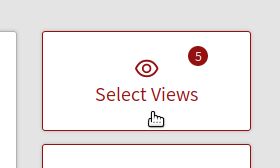
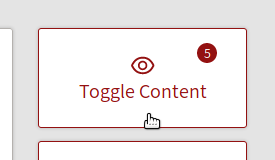
renamed content toggling, again. not the last time.

diff --git a/vedaweb-frontend/src/Footer.js b/vedaweb-frontend/src/Footer.js
@@ -25,28 +25,28 @@ class Footer extends Component {
 
                 <Row
                 type="flex"
-                justify="space-around"
+                justify="center"
                 align="middle">
 
-                    <Col span={3} className="footer-box">
+                    <Col span={5} className="footer-box">
                         <a href="http://www.dfg.de/en" className="bw" target="_blank" rel="noopener noreferrer">
                             <img src={logoDFG} alt="Gefördert durch die DFG"/>
                         </a>
                     </Col>
 
-                    <Col span={3} className="footer-box">
+                    <Col span={5} className="footer-box">
                         <a href="http://dh.uni-koeln.de/" className="bw" target="_blank" rel="noopener noreferrer">
                             <img src={logoIDH} alt="IDH"/>
                         </a>
                     </Col>
 
-                    <Col span={3} className="footer-box">
+                    <Col span={5} className="footer-box">
                         <a href="http://cceh.uni-koeln.de/" className="bw" target="_blank" rel="noopener noreferrer">
                             <img src={logoCCEH} alt="CCEH"/>
                         </a>
                     </Col>
 
-                    <Col span={3} className="footer-box">
+                    <Col span={5} className="footer-box">
                         <a href="http://dch.phil-fak.uni-koeln.de/" className="bw" target="_blank" rel="noopener noreferrer">
                             <img src={logoDCH} alt="DCH"/>
                         </a>

diff --git a/vedaweb-frontend/src/ContentView.js b/vedaweb-frontend/src/ContentView.js
@@ -396,7 +396,7 @@ class ContentView extends Component {
                                             count={uiDataStore.layers.filter(l => l.id.endsWith('_') && l.show).length}>
                                                 <div style={{textAlign:'center', fontSize:'20px', lineHeight: '1.2',}}>
                                                     <Icon type="eye" style={{fontSize:'24px'}}/><br/>
-                                                    Select Views
+                                                    Toggle Content
                                                 </div>
                                             </Badge>
                                         </div>
@@ -424,7 +424,7 @@ class ContentView extends Component {
                     }
 
                     <Drawer
-                    title={<h4 style={{marginBottom:'0'}}><Icon type="eye" className="gap-right"/> Select Views</h4>}
+                    title={<h4 style={{marginBottom:'0'}}><Icon type="eye" className="gap-right"/> Toggle Content</h4>}
                     placement="right"
                     width="480"
                     closable={true}
